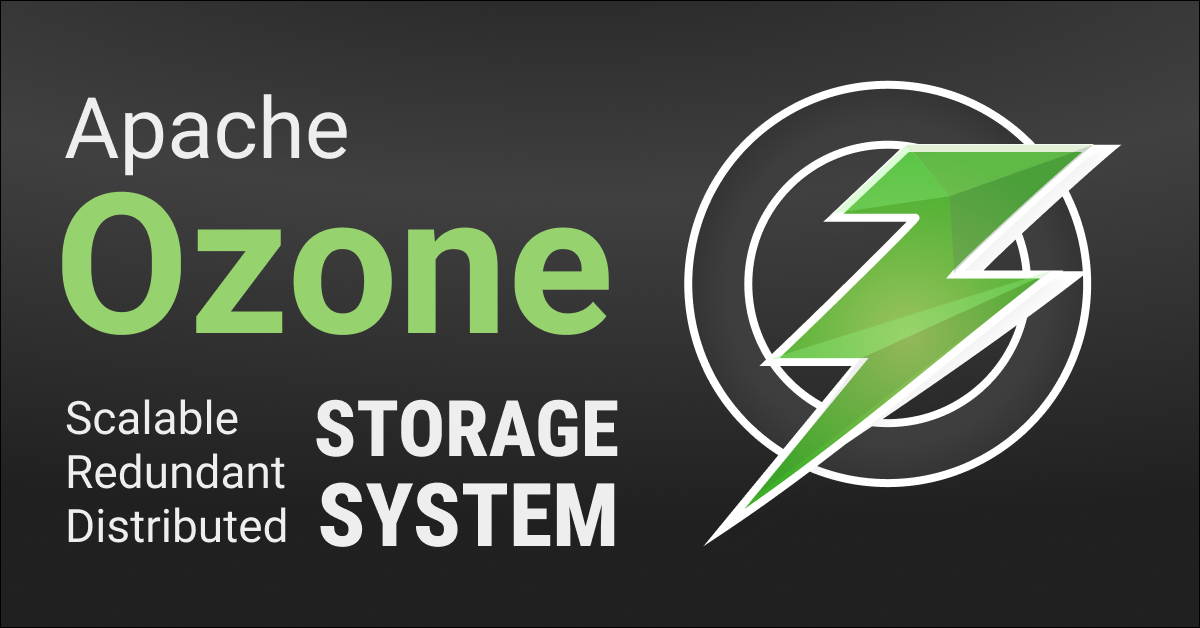
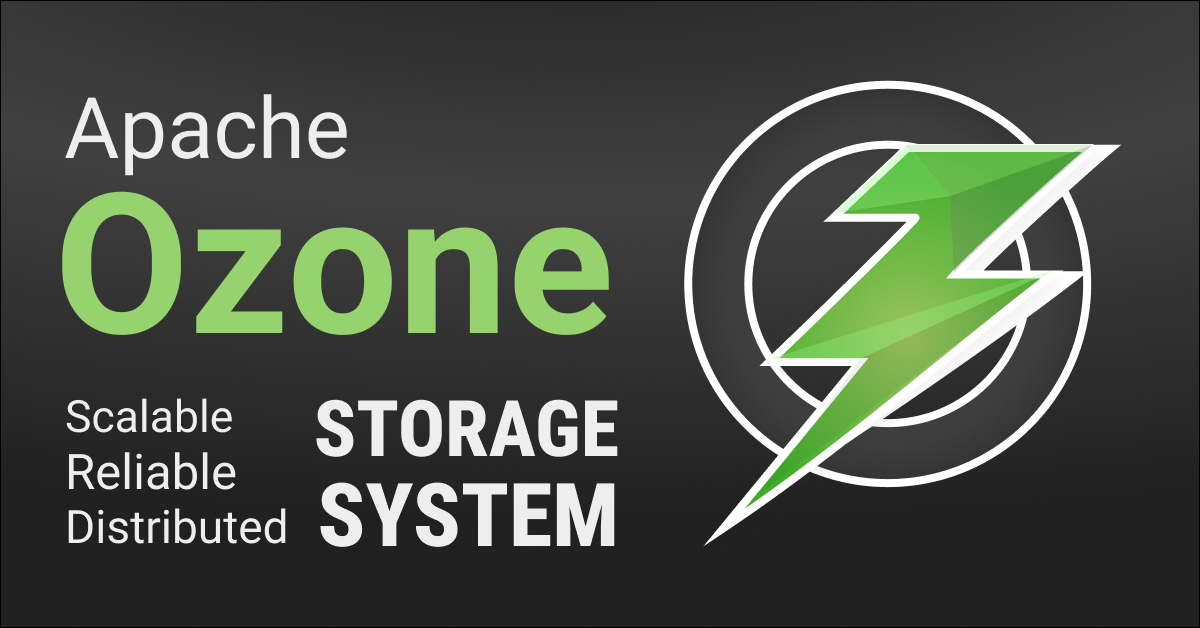
Update tagline in social card and config

diff --git a/docusaurus.config.js b/docusaurus.config.js
@@ -8,7 +8,7 @@ const darkCodeTheme = themes.dracula;
 /** @type {import('@docusaurus/types').Config} */
 const config = {
   title: 'Apache Ozone',
-  tagline: 'Scalable, redundant, distributed storage system optimized for data analytics and object store workloads.',
+  tagline: 'Scalable, reliable, distributed storage system optimized for data analytics and object store workloads.',
   favicon: 'img/favicon/favicon.ico',
 
   // Set the production URL of the website. Must be updated when the final site is deployed.
